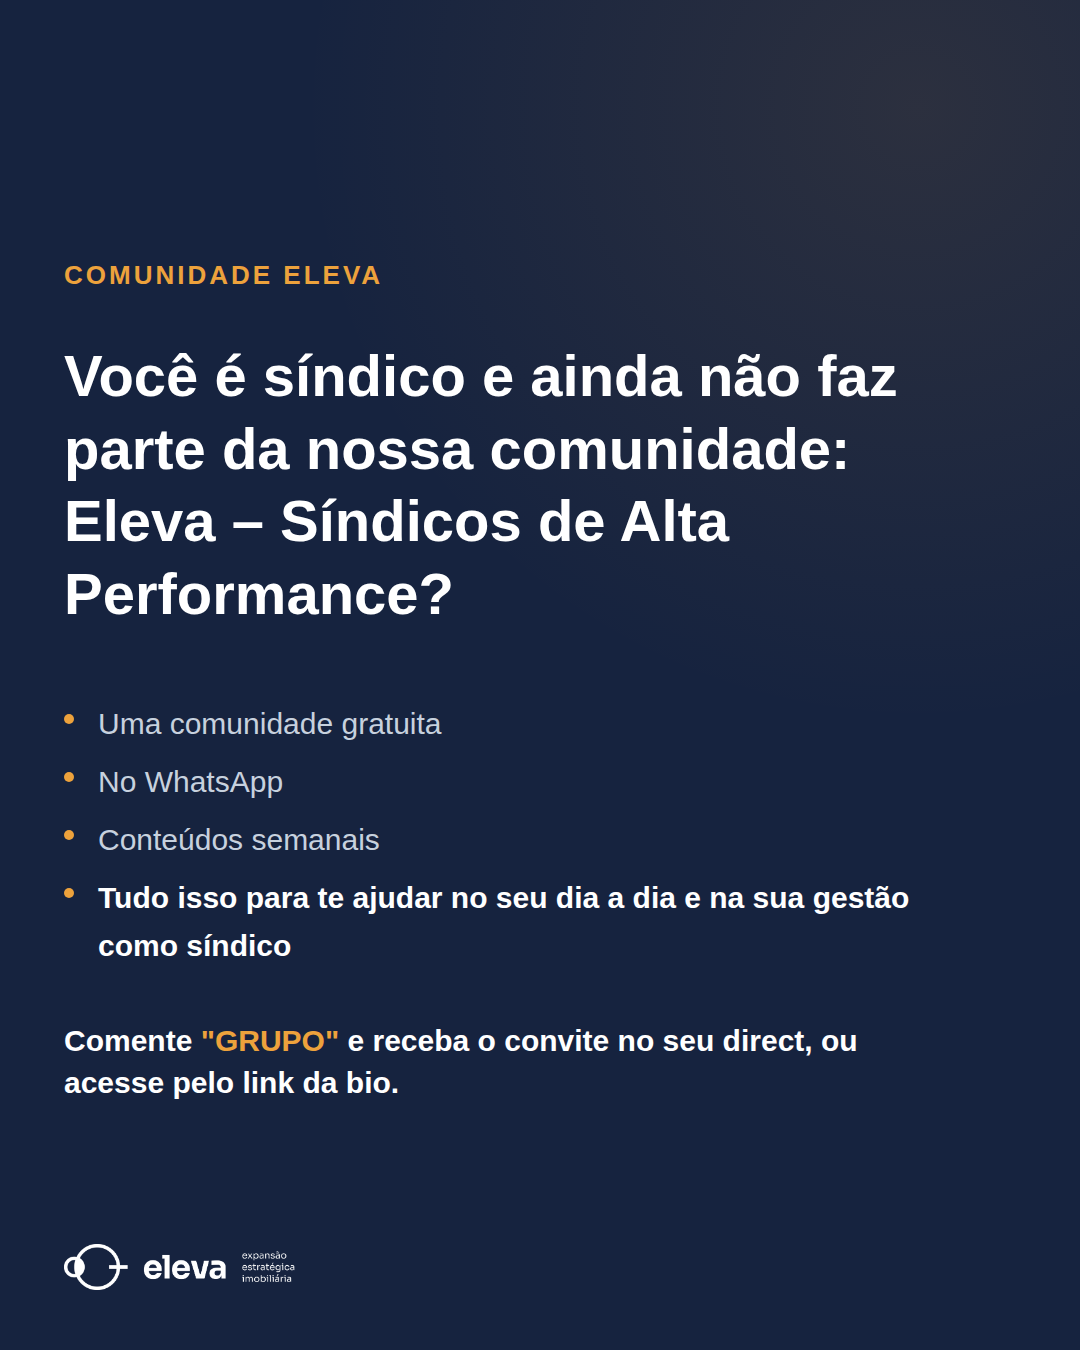
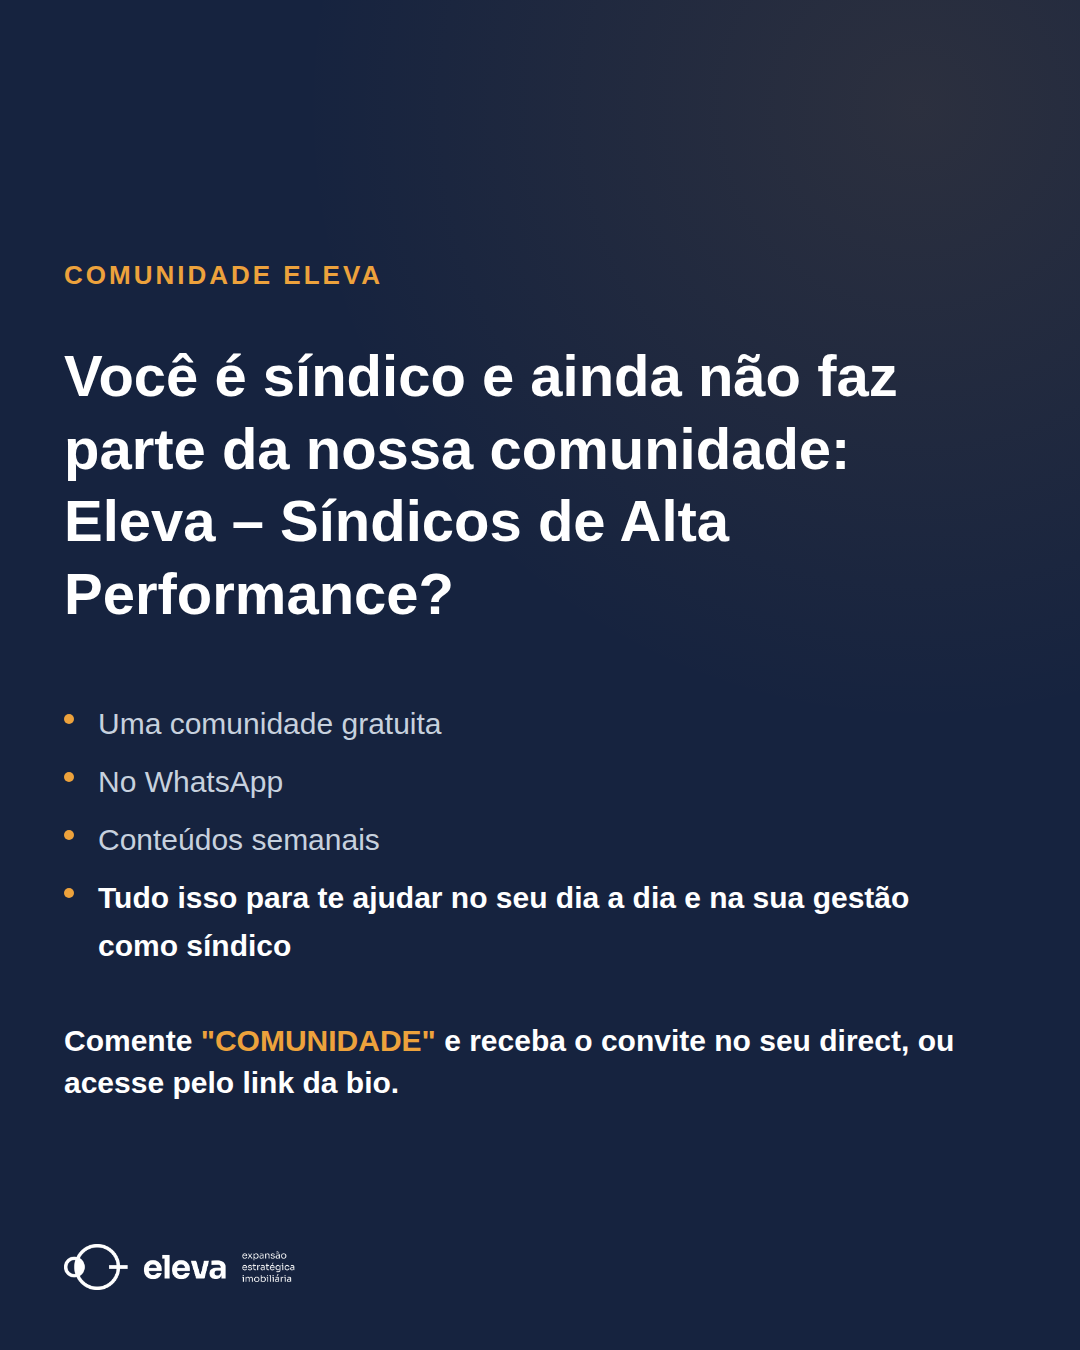
Troca palavra-chave GRUPO por COMUNIDADE no post estático e story de convite, documenta versão Stories
Claude-Session: https://claude.ai/code/session_01GQSqEjEuqv44iBdACeUWUZ

Changed region(s): [[0.2139, 0.7467, 0.8861, 0.7778]]

diff --git a/eleva/carrossel-lancamento-portal-sindico.md b/eleva/carrossel-lancamento-portal-sindico.md
@@ -79,7 +79,7 @@ Quer ser um dos primeiros a receber esse acesso gratuito? Comente "PORTAL" 👇 
 
 "Uma comunidade gratuita, no WhatsApp, com conteúdos semanais para te ajudar no seu dia a dia e na sua gestão como síndico."
 
-"Comente: 'GRUPO' e receba o convite no seu direct ou acesse pelo link da bio."
+"Comente: 'COMUNIDADE' e receba o convite no seu direct ou acesse pelo link da bio."
 
 **Legenda do post:**
 
@@ -87,9 +87,25 @@ Você é síndico e ainda não faz parte da nossa comunidade, Eleva Síndicos de
 
 Uma comunidade gratuita, no WhatsApp, com conteúdo semanal para o seu dia a dia de gestão.
 
-Comente "GRUPO" 👇 e receba o convite no direct, ou acesse direto pelo link da bio.
+Comente "COMUNIDADE" 👇 e receba o convite no direct, ou acesse direto pelo link da bio.
 
-**Automação de direct (gatilho: comentário "GRUPO"):**
+**Automação de direct (gatilho: comentário "COMUNIDADE"):**
 
 > Oi, [nome], tudo bem? Que bom que você quer fazer parte da comunidade Eleva lá no WhatsApp. Para participar, basta clicar no link abaixo. Nos vemos na comunidade. Um abraço!
 > 🔗 https://chat.whatsapp.com/IPCOutpwO2rLJF2KmP99t9
+
+**Arquivo:** `post-estatico-convite-grupo-whatsapp.png`
+
+---
+
+## Versão Stories — Convite para a comunidade Eleva
+
+**Onde postar:** Instagram, Stories (1080x1920)
+
+**Texto da imagem:** igual à versão feed, com o CTA adaptado para resposta de Stories:
+
+"Responda este story com 'COMUNIDADE' e receba o convite no seu direct, ou acesse pelo link da bio."
+
+**Automação:** gatilho pela resposta ao Stories com a palavra "COMUNIDADE", mesmo texto e link da automação acima.
+
+**Arquivo:** `story-convite-grupo-whatsapp.png`
